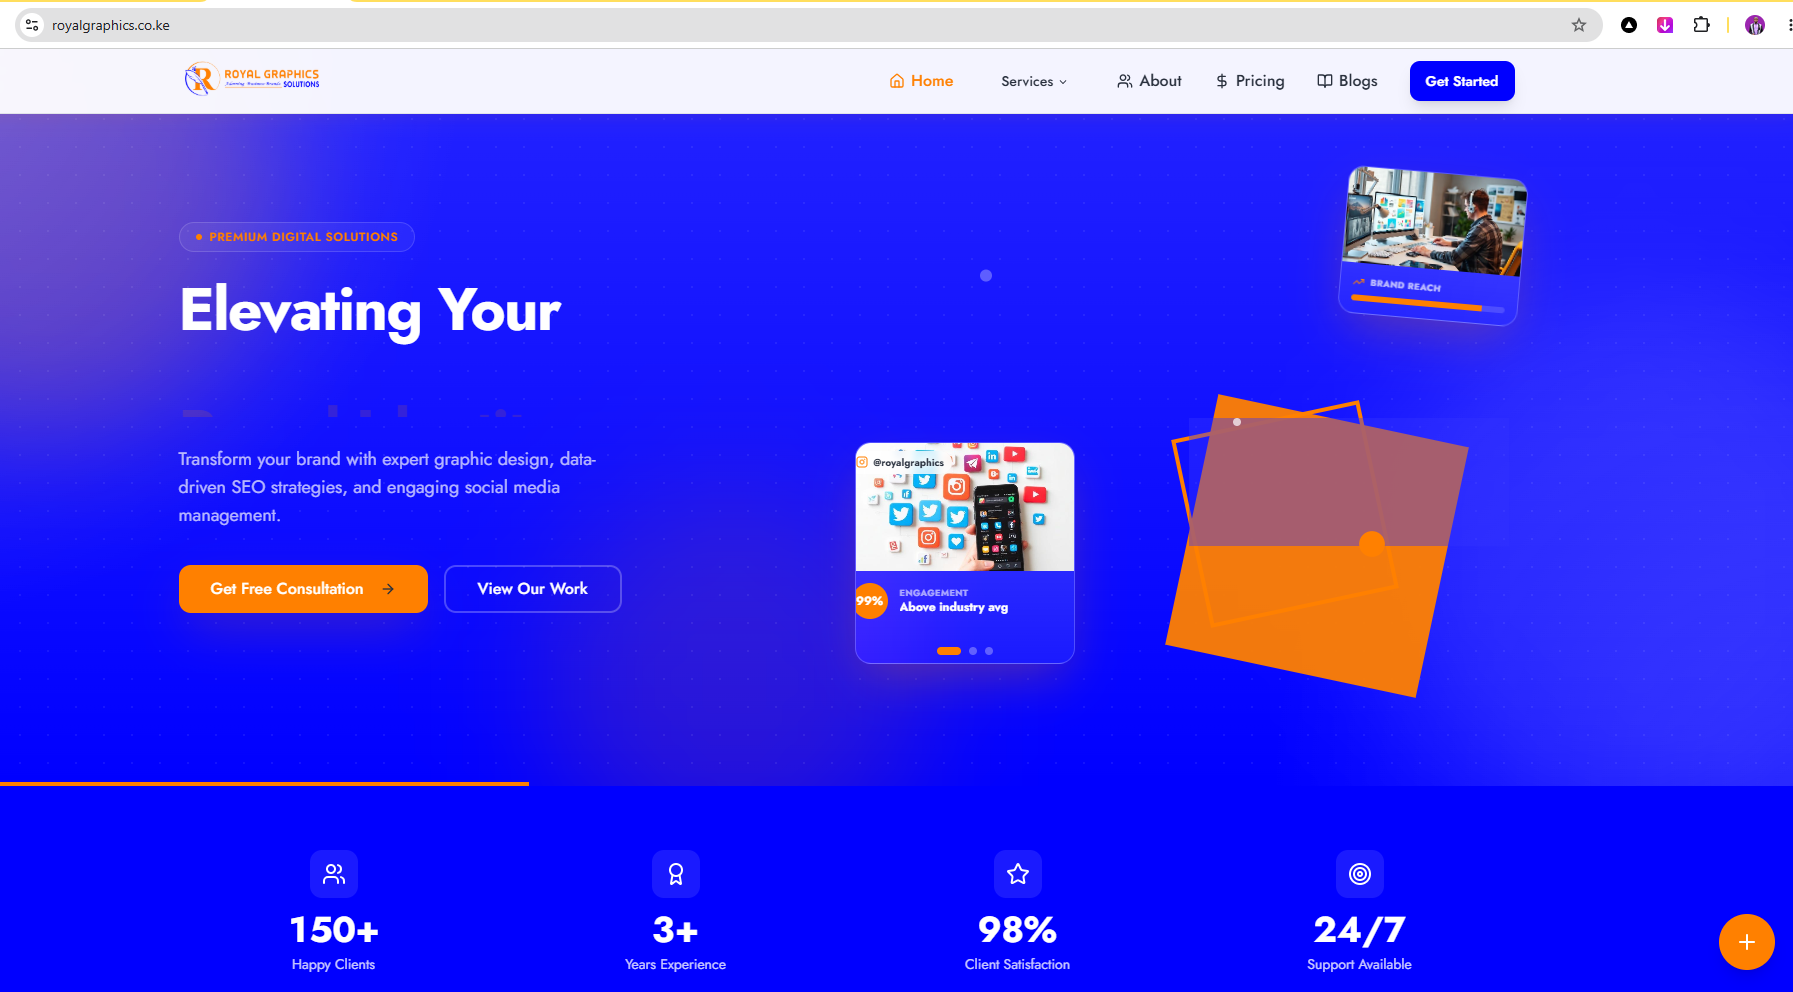
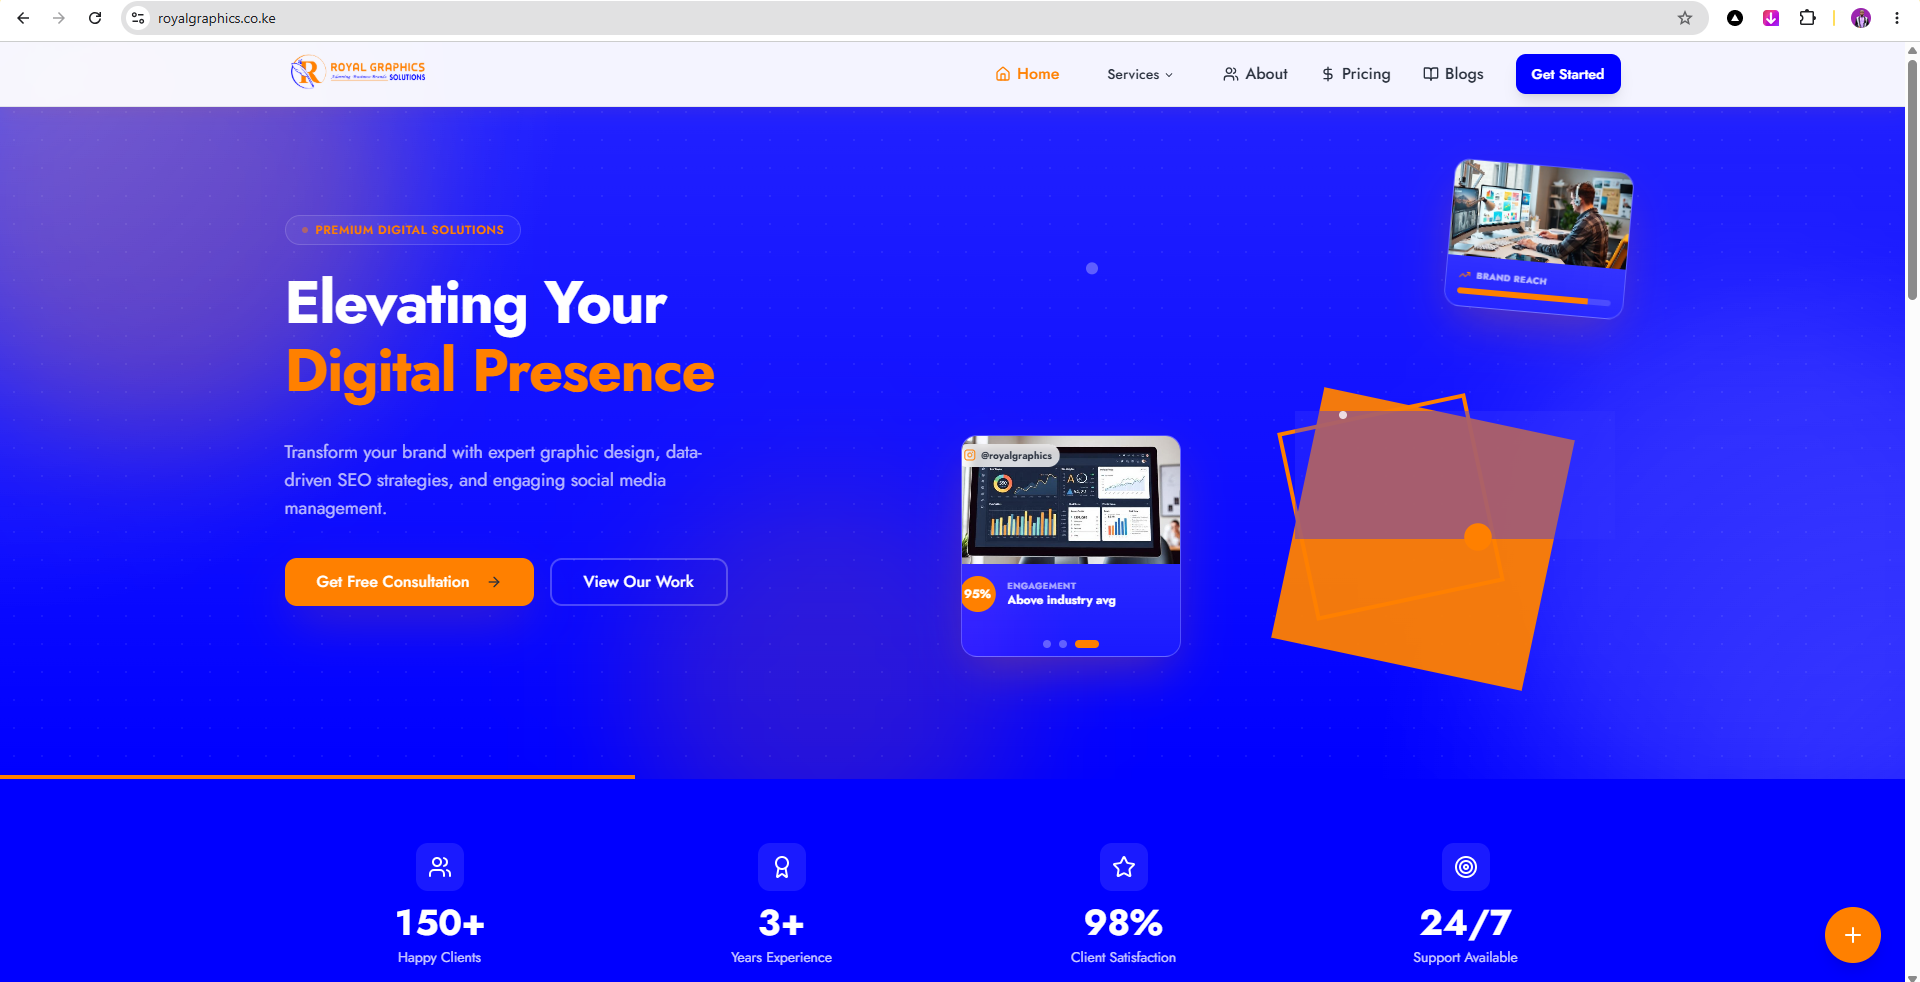
Replace og-home.jpg with hero-bg.png for social sharing

diff --git a/index.html b/index.html
@@ -18,7 +18,7 @@
     <meta property="og:description" content="Transform your brand with expert graphic design, SEO, and social media management. Your royal treatment in digital marketing." />
     <meta property="og:type" content="website" />
     <meta property="og:url" content="https://royalgraphics.co.ke/" />
-    <meta property="og:image" content="https://royalgraphics.co.ke/images/og-home.jpg" />
+    <meta property="og:image" content="https://royalgraphics.co.ke/hero-bg.png" />
     <meta property="og:image:width" content="1200" />
     <meta property="og:image:height" content="630" />
     <meta property="og:image:alt" content="Royal Graphics Solutions" />
@@ -28,7 +28,7 @@
     <meta name="twitter:site" content="@RoyalGraphics" />
     <meta name="twitter:title" content="Royal Graphics Solutions - Premium Digital Marketing Services" />
     <meta name="twitter:description" content="Transform your brand with expert graphic design, SEO, and social media management." />
-    <meta name="twitter:image" content="https://royalgraphics.co.ke/images/og-home.jpg" />
+    <meta name="twitter:image" content="https://royalgraphics.co.ke/hero-bg.png" />
     <!-- Google tag (gtag.js) -->
     <script async src="https://www.googletagmanager.com/gtag/js?id=G-ELTCEMPQ3V"></script>
     <script>

diff --git a/src/components/SEO.tsx b/src/components/SEO.tsx
@@ -11,7 +11,7 @@ interface SEOProps {
 const SITE_URL = "https://royalgraphics.co.ke";
 const DEFAULT_TITLE = "Royal Graphics Solutions - Digital Marketing Agency";
 const DEFAULT_DESCRIPTION = "Elevate your digital presence with Royal Graphics Solutions. Expert graphic design, SEO services, and social media management for businesses.";
-const DEFAULT_IMAGE = "/images/og-home.jpg";
+const DEFAULT_IMAGE = "/hero-bg.png";
 
 const SEO = ({
   title,

diff --git a/src/pages/Home.tsx b/src/pages/Home.tsx
@@ -45,7 +45,7 @@ const Home = () => {
       <SEO 
         title="Home"
         description="Elevate your digital presence with Royal Graphics Solutions. Expert graphic design, social media marketing, and digital solutions for businesses in Kenya."
-        image="/images/og-home.jpg"
+        image="/hero-bg.png"
         url="/"
       />
       <Hero />